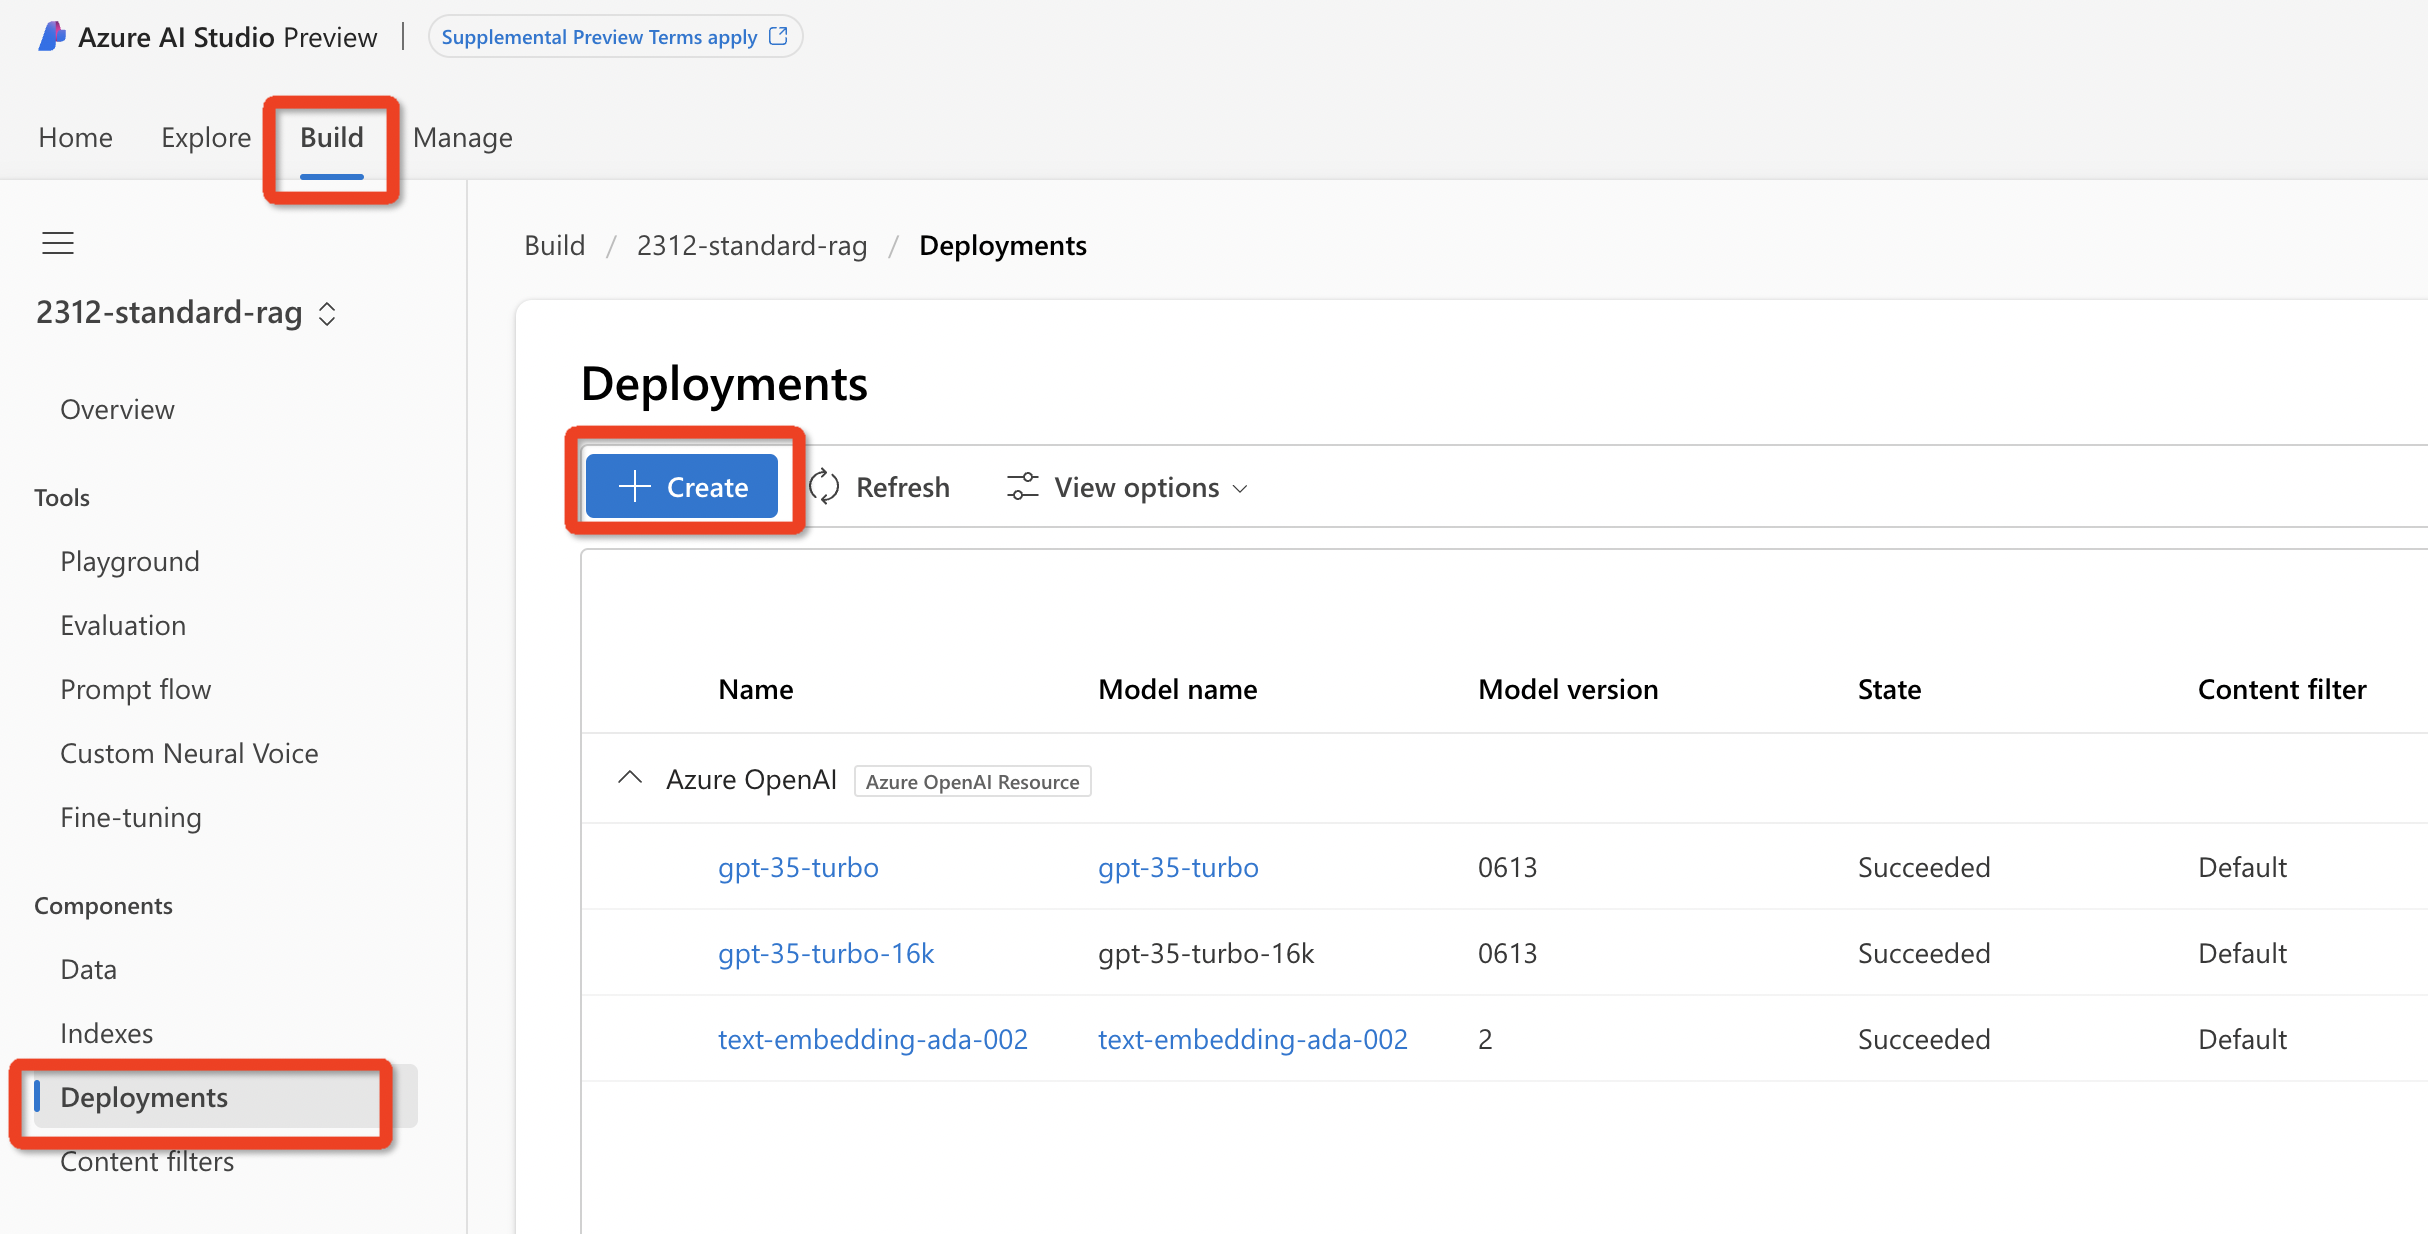
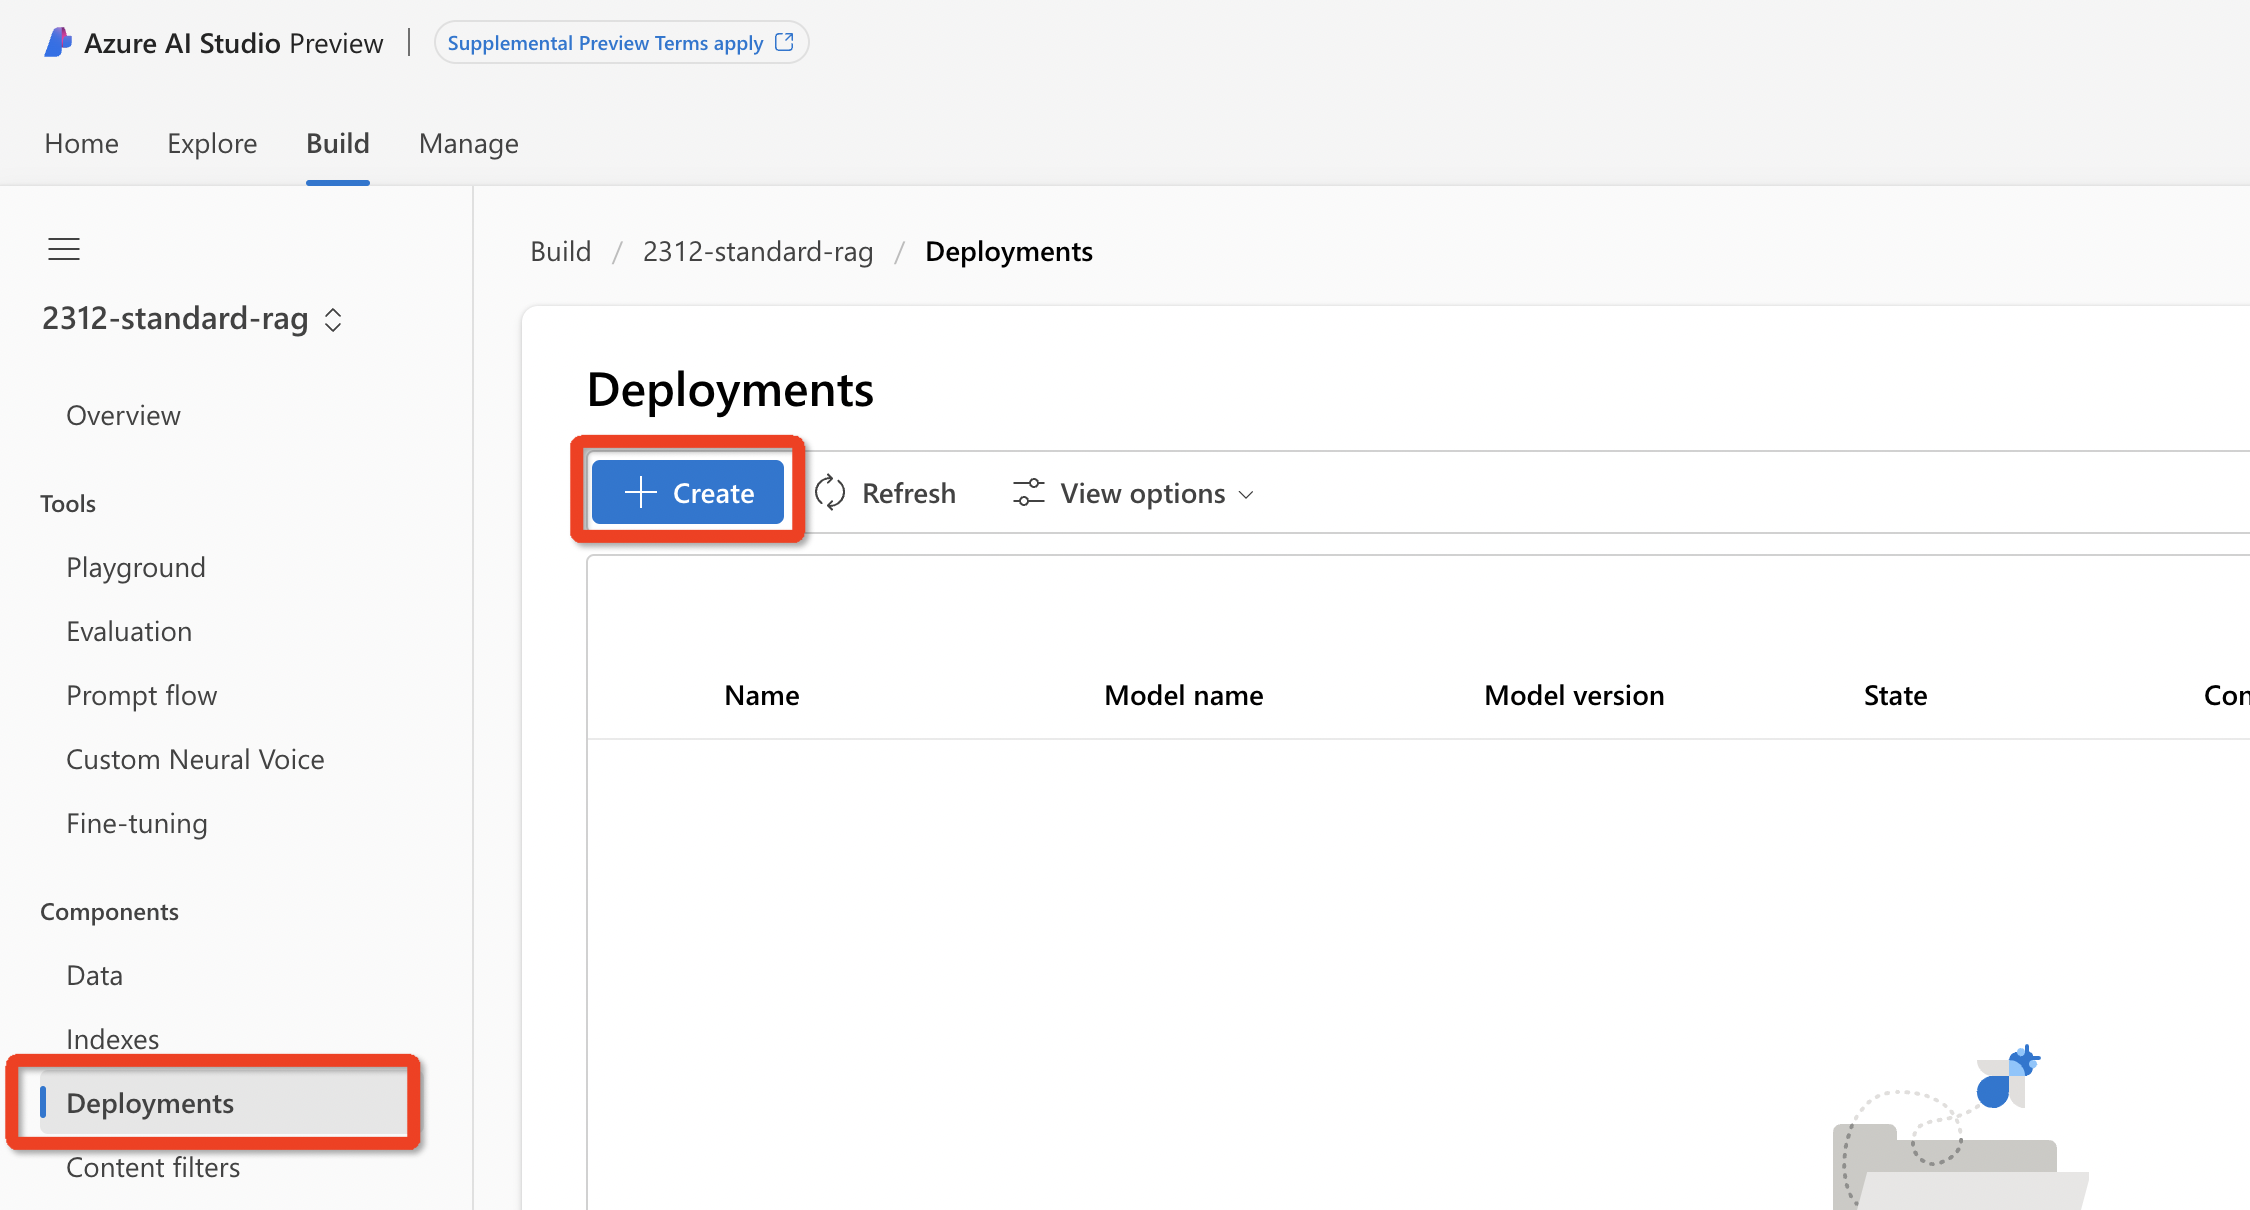
README updated 07

diff --git a/Labs/Lab2 - simple RAG automation/Tutorial.md b/Labs/Lab2 - simple RAG automation/Tutorial.md
@@ -38,9 +38,34 @@ Click on "New Connection".
 Next add the endpoint URL, the API key copied earlier and a connection name. 
 (API version for AI Search connection needs to be 2023-07-01-preview or later for vector store support.)
 ![Alt text](../../media/aisearchconn04.png)
-**4. Create connections for embeddings model and the LLM** \
+
+
+**4. Create AzureOpenAI deployments for the embeddings model and the openai gpt model of choice** \
+AzureAI Studio by default will recognize deployed models under Azure OpenAI. 
+If you don't see these models under Azure AI Studio create them following the below.
 To create embeddings for document chunks our flow will need to use an embeddings model. We need to create a connection for the embeddings model and the LLM to drive the RAG flow.
 
-**5. Create a vector index with Azure PromptFlow**
+![Alt text](../../media/aoaimodel-deploy01.png)
 
-**6. Deploy the flow to Azure as an LLM app**
+Next choose the text-embedding-ada-002 model to create the embeddings...
+![Alt text](../../media/aoaimodel-deploy02.png)
+
+Choose model version 2 and set 120k TPM quota for the deployment so that we do not exhaust the whole 240k TPM regional quota. Then click "Deploy".
+![Alt text](../../media/aoaimodel-deploy03.png)
+
+Copy the deployments API key...
+![Alt text](../../media/aoaimodel-deploy04.png)
+
+Repeat the same steps to deploy gpt-35-turbo-16k model for chat completions.
+At the you will have two deployments. One for embeddings and got-35-turbo 16k for chat completions.
+![Alt text](../../media/aoaimodel-deploy05.png)
+
+**5. Create connections for embeddings model and the LLM of choice** \
+
+
+
+**6. Create a vector index with Azure PromptFlow**
+
+**7. Deploy the flow to Azure as an LLM app**
+
+monitor usage...
